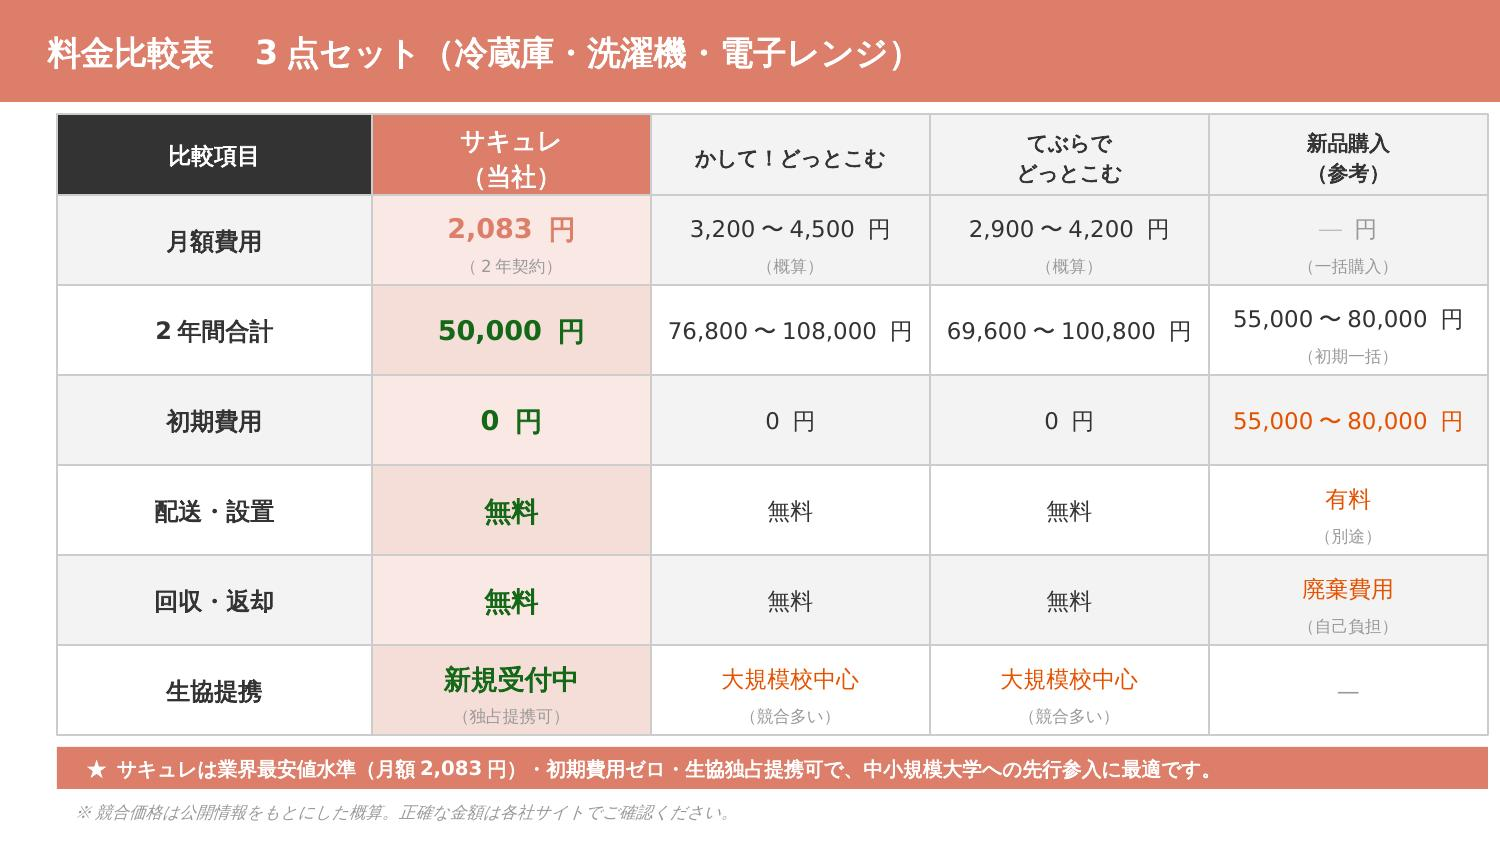
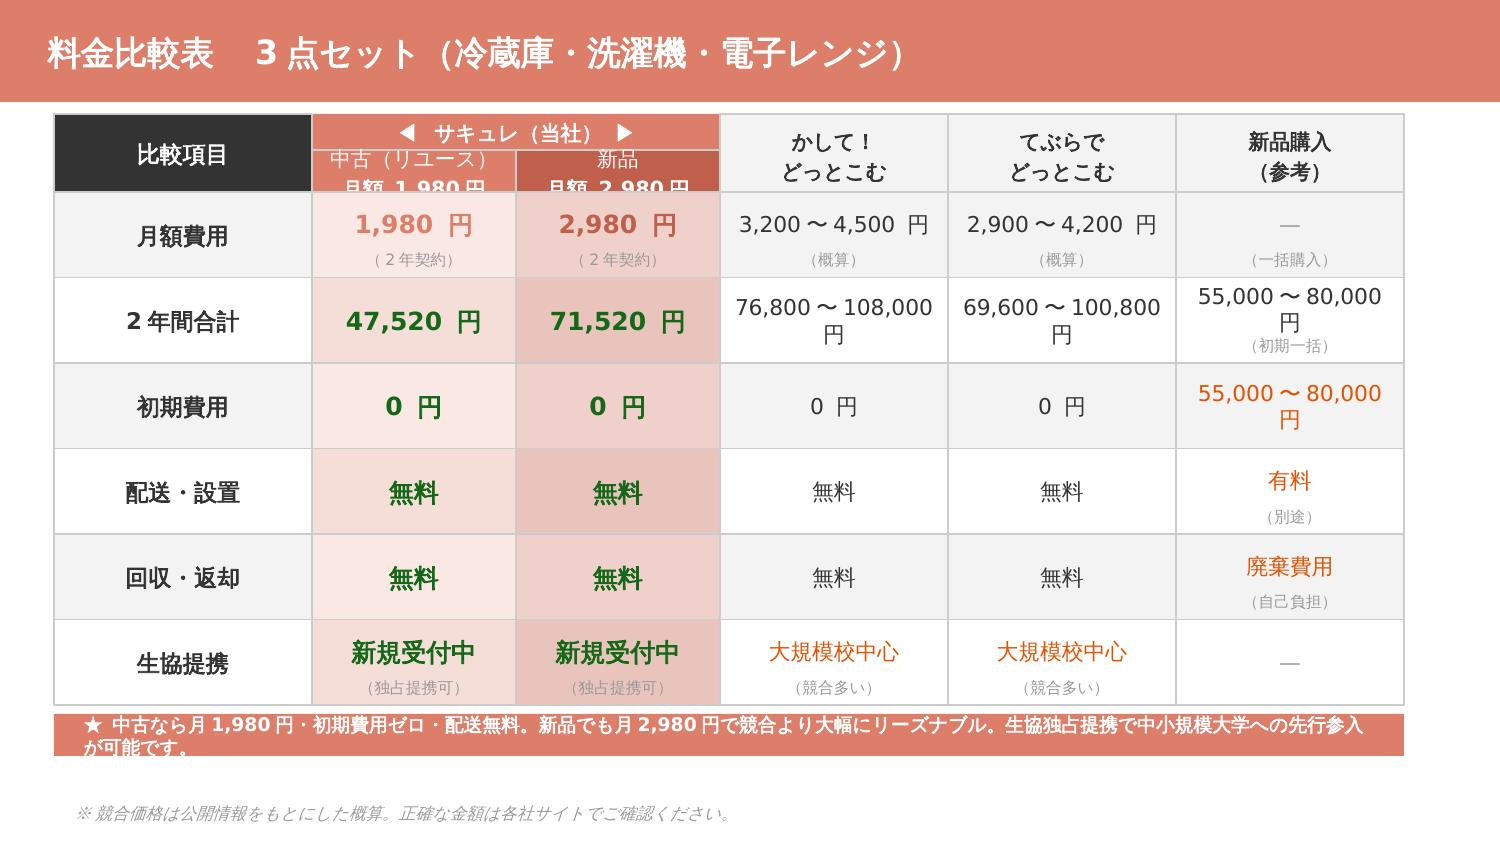
料金比較表 2プライス制に更新（中古1,980円・新品2,980円）
サキュレ列を中古（リユース）と新品の2列に分割して比較。
2年合計: 中古47,520円 / 新品71,520円。競合3社・新品購入との比較継続。

Claude-Session: https://claude.ai/code/session_01BgHAFjDQSmbvXBnKUF79fq

diff --git a/make_ryokin_hikaku.js b/make_ryokin_hikaku.js
@@ -3,15 +3,17 @@ const pres = new pptx();
 pres.layout = 'LAYOUT_16x9'; // 10" × 5.625"
 
 const CORAL = 'DD7E6B';
+const DKCRL = 'C05F4C';  // ダークコーラル（新品列ヘッダー）
 const GREEN = '156818';
-const LTGRN = 'D9EAD3';
 const WHITE = 'FFFFFF';
 const OFFWH = 'F3F3F3';
 const DTXT  = '333333';
-const MTXT  = '595959';
 const MUTED = '999999';
 const LGREY = 'CCCCCC';
-const LTCOR = 'FAE8E4';  // 薄コーラル（サキュレ列背景）
+const LTCOR = 'FAE8E4';  // 薄コーラル（中古列背景偶数）
+const LTCR2 = 'F5DDD8';  // 薄コーラル（中古列背景奇数）
+const LTDK  = 'F0D0CA';  // 薄ダークコーラル（新品列背景偶数）
+const LTDK2 = 'E8C4BC';  // 薄ダークコーラル（新品列背景奇数）
 const AMBER = 'E65100';
 
 function card(s, x, y, w, h, fill, lineColor) {
@@ -33,42 +35,86 @@ function txt(s, text, x, y, w, h, opts) {
   txt(s, '料金比較表　3点セット（冷蔵庫・洗濯機・電子レンジ）', 0.22, 0, 9.6, 0.68,
     { fontSize: 16, bold: true, color: WHITE, valign: 'middle' });
 
-  // ─── 凡例（右上） ───
   txt(s, '※競合価格は公開情報をもとにした概算。正確な金額は各社サイトでご確認ください。',
-    0.4, 5.30, 9.2, 0.22,
+    0.4, 5.32, 9.2, 0.20,
     { fontSize: 8, color: MUTED, italic: true });
 
-  // ─── Table setup ───
-  const tX = 0.38;       // table left edge
-  const tY = 0.76;       // table top
-  const RH = 0.60;       // row height (data rows)
-  const CHH = 0.54;      // column header height
-  const LW = 2.10;       // label column width
-  const DW = 1.86;       // data column width (×4)
-  // total: 2.10 + 4×1.86 = 9.54"... adjust
-  // with tX=0.38: right edge = 0.38+2.10+4×1.86 = 0.38+2.10+7.44 = 9.92 ✓
+  // ─── Table layout ───
+  // Columns: 比較項目(LW) | サキュレ中古(SW) | サキュレ新品(SW) | かして!(DW) | てぶらで(DW) | 新品購入(DW)
+  const tX  = 0.36;
+  const tY  = 0.76;
+  const RH  = 0.57;   // data row height
+  const CHH = 0.52;   // column header height
+  const LW  = 1.72;   // label column
+  const SW  = 1.36;   // サキュレ sub-columns (×2)
+  const DW  = 1.52;   // competitor columns (×3)
+  // total: 0.36 + 1.72 + 2×1.36 + 3×1.52 = 0.36+1.72+2.72+4.56 = 9.36 ✓
 
-  const cols = [
-    { label: 'サキュレ\n（当社）', fill: CORAL, txtCol: WHITE, isSacure: true },
-    { label: 'かして！どっとこむ', fill: OFFWH, txtCol: DTXT, isSacure: false },
-    { label: 'てぶらで\nどっとこむ', fill: OFFWH, txtCol: DTXT, isSacure: false },
-    { label: '新品購入\n（参考）', fill: OFFWH, txtCol: DTXT, isSacure: false },
+  // ── Super-header "サキュレ（当社）" spanning 2 sub-cols ──
+  const sacSuperX = tX + LW;
+  const sacSuperW = SW * 2;
+  card(s, sacSuperX, tY, sacSuperW, 0.24, CORAL);
+  txt(s, '◀  サキュレ（当社）  ▶', sacSuperX, tY, sacSuperW, 0.24,
+    { fontSize: 10, bold: true, color: WHITE, align: 'center', valign: 'middle' });
+
+  // ── Column headers ──
+  const colHeaderY = tY + 0.24;
+  const colHeaderH = CHH - 0.24;
+
+  // 比較項目
+  card(s, tX, tY, LW, CHH, DTXT, LGREY);
+  txt(s, '比較項目', tX, tY, LW, CHH,
+    { fontSize: 11, bold: true, color: WHITE, align: 'center', valign: 'middle' });
+
+  // サキュレ 中古
+  card(s, sacSuperX, colHeaderY, SW, colHeaderH, CORAL, LGREY);
+  txt(s, [
+    { text: '中古（リユース）', options: { breakLine: true } },
+    { text: '月額 1,980円', options: { bold: true } },
+  ], sacSuperX, colHeaderY, SW, colHeaderH,
+    { fontSize: 10, color: WHITE, align: 'center', valign: 'middle', lineSpacingMultiple: 1.2 });
+
+  // サキュレ 新品
+  const sacNewX = sacSuperX + SW;
+  card(s, sacNewX, colHeaderY, SW, colHeaderH, DKCRL, LGREY);
+  txt(s, [
+    { text: '新品', options: { breakLine: true } },
+    { text: '月額 2,980円', options: { bold: true } },
+  ], sacNewX, colHeaderY, SW, colHeaderH,
+    { fontSize: 10, color: WHITE, align: 'center', valign: 'middle', lineSpacingMultiple: 1.2 });
+
+  // 競合3列
+  const competitorCols = [
+    { label: 'かして！\nどっとこむ', fill: OFFWH, txtCol: DTXT },
+    { label: 'てぶらで\nどっとこむ', fill: OFFWH, txtCol: DTXT },
+    { label: '新品購入\n（参考）', fill: OFFWH, txtCol: DTXT },
   ];
+  competitorCols.forEach((col, ci) => {
+    const x = tX + LW + SW * 2 + ci * DW;
+    card(s, x, tY, DW, CHH, col.fill, LGREY);
+    txt(s, col.label, x, tY, DW, CHH,
+      { fontSize: 10, bold: true, color: col.txtCol,
+        align: 'center', valign: 'middle', lineSpacingMultiple: 1.2 });
+  });
 
+  // ── Row data ──
+  // Each row: [label, sacure_chuko, sacure_shinpin, kashite, tebura, shinpin_purchase]
   const rows = [
     {
       label: '月額費用',
-      vals: [
-        { v: '2,083 円', sub: '（2年契約）', bold: true, col: CORAL },
+      cells: [
+        { v: '1,980 円', sub: '（2年契約）', bold: true, col: CORAL },
+        { v: '2,980 円', sub: '（2年契約）', bold: true, col: DKCRL },
         { v: '3,200〜4,500 円', sub: '（概算）', bold: false, col: DTXT },
         { v: '2,900〜4,200 円', sub: '（概算）', bold: false, col: DTXT },
-        { v: '— 円', sub: '（一括購入）', bold: false, col: MUTED },
+        { v: '—', sub: '（一括購入）', bold: false, col: MUTED },
       ],
     },
     {
       label: '2年間合計',
-      vals: [
-        { v: '50,000 円', sub: '', bold: true, col: GREEN },
+      cells: [
+        { v: '47,520 円', sub: '', bold: true, col: GREEN },
+        { v: '71,520 円', sub: '', bold: true, col: GREEN },
         { v: '76,800〜108,000 円', sub: '', bold: false, col: DTXT },
         { v: '69,600〜100,800 円', sub: '', bold: false, col: DTXT },
         { v: '55,000〜80,000 円', sub: '（初期一括）', bold: false, col: DTXT },
@@ -76,7 +122,8 @@ function txt(s, text, x, y, w, h, opts) {
     },
     {
       label: '初期費用',
-      vals: [
+      cells: [
+        { v: '0 円', sub: '', bold: true, col: GREEN },
         { v: '0 円', sub: '', bold: true, col: GREEN },
         { v: '0 円', sub: '', bold: false, col: DTXT },
         { v: '0 円', sub: '', bold: false, col: DTXT },
@@ -85,7 +132,8 @@ function txt(s, text, x, y, w, h, opts) {
     },
     {
       label: '配送・設置',
-      vals: [
+      cells: [
+        { v: '無料', sub: '', bold: true, col: GREEN },
         { v: '無料', sub: '', bold: true, col: GREEN },
         { v: '無料', sub: '', bold: false, col: DTXT },
         { v: '無料', sub: '', bold: false, col: DTXT },
@@ -94,7 +142,8 @@ function txt(s, text, x, y, w, h, opts) {
     },
     {
       label: '回収・返却',
-      vals: [
+      cells: [
+        { v: '無料', sub: '', bold: true, col: GREEN },
         { v: '無料', sub: '', bold: true, col: GREEN },
         { v: '無料', sub: '', bold: false, col: DTXT },
         { v: '無料', sub: '', bold: false, col: DTXT },
@@ -103,7 +152,8 @@ function txt(s, text, x, y, w, h, opts) {
     },
     {
       label: '生協提携',
-      vals: [
+      cells: [
+        { v: '新規受付中', sub: '（独占提携可）', bold: true, col: GREEN },
         { v: '新規受付中', sub: '（独占提携可）', bold: true, col: GREEN },
         { v: '大規模校中心', sub: '（競合多い）', bold: false, col: AMBER },
         { v: '大規模校中心', sub: '（競合多い）', bold: false, col: AMBER },
@@ -112,59 +162,65 @@ function txt(s, text, x, y, w, h, opts) {
     },
   ];
 
-  // ── Column headers ──
-  cols.forEach((col, ci) => {
-    const x = tX + LW + ci * DW;
-    card(s, x, tY, DW, CHH, col.fill, LGREY);
-    txt(s, col.label, x, tY, DW, CHH,
-      { fontSize: col.isSacure ? 12 : 10, bold: true, color: col.txtCol,
-        align: 'center', valign: 'middle', lineSpacingMultiple: 1.2 });
-  });
-  // label column header (empty)
-  card(s, tX, tY, LW, CHH, DTXT, LGREY);
-  txt(s, '比較項目', tX, tY, LW, CHH,
-    { fontSize: 11, bold: true, color: WHITE, align: 'center', valign: 'middle' });
-
-  // ── Data rows ──
   rows.forEach((row, ri) => {
     const y = tY + CHH + ri * RH;
-    const isEven = ri % 2 === 0;
+    const even = ri % 2 === 0;
 
     // Row label
-    card(s, tX, y, LW, RH, isEven ? OFFWH : WHITE, LGREY);
+    card(s, tX, y, LW, RH, even ? OFFWH : WHITE, LGREY);
     txt(s, row.label, tX, y, LW, RH,
-      { fontSize: 11.5, bold: true, color: DTXT, align: 'center', valign: 'middle' });
+      { fontSize: 11, bold: true, color: DTXT, align: 'center', valign: 'middle' });
 
-    // Data cells
-    row.vals.forEach((val, ci) => {
-      const x = tX + LW + ci * DW;
-      const isSacure = ci === 0;
-      const bgFill = isSacure ? (isEven ? LTCOR : 'F5DDD8') : (isEven ? OFFWH : WHITE);
-      card(s, x, y, DW, RH, bgFill, LGREY);
+    // サキュレ 中古
+    const bg0 = even ? LTCOR : LTCR2;
+    card(s, sacSuperX, y, SW, RH, bg0, LGREY);
+    // サキュレ 新品
+    const bg1 = even ? LTDK : LTDK2;
+    card(s, sacNewX, y, SW, RH, bg1, LGREY);
 
-      if (val.sub) {
-        // main value + sub note
-        txt(s, val.v, x, y + 0.04, DW, 0.36,
-          { fontSize: isSacure ? 13 : 11, bold: val.bold, color: val.col,
-            align: 'center', valign: 'middle' });
-        txt(s, val.sub, x, y + 0.37, DW, 0.20,
-          { fontSize: 8, color: MUTED, align: 'center', valign: 'middle' });
+    // 競合
+    competitorCols.forEach((_, ci) => {
+      const x = tX + LW + SW * 2 + ci * DW;
+      card(s, x, y, DW, RH, even ? OFFWH : WHITE, LGREY);
+    });
+
+    // Cell values
+    const cellXs = [
+      sacSuperX,
+      sacNewX,
+      tX + LW + SW * 2,
+      tX + LW + SW * 2 + DW,
+      tX + LW + SW * 2 + DW * 2,
+    ];
+    const cellWs = [SW, SW, DW, DW, DW];
+
+    row.cells.forEach((cell, ci) => {
+      const cx = cellXs[ci];
+      const cw = cellWs[ci];
+      const isSacure = ci < 2;
+      const fSize = isSacure ? 12 : 10.5;
+
+      if (cell.sub) {
+        txt(s, cell.v, cx, y + 0.04, cw, 0.34,
+          { fontSize: fSize, bold: cell.bold, color: cell.col, align: 'center', valign: 'middle' });
+        txt(s, cell.sub, cx, y + 0.36, cw, 0.18,
+          { fontSize: 7.5, color: MUTED, align: 'center', valign: 'middle' });
       } else {
-        txt(s, val.v, x, y, DW, RH,
-          { fontSize: isSacure ? 13 : 11, bold: val.bold, color: val.col,
-            align: 'center', valign: 'middle' });
+        txt(s, cell.v, cx, y, cw, RH,
+          { fontSize: fSize, bold: cell.bold, color: cell.col, align: 'center', valign: 'middle' });
       }
     });
   });
 
-  // ── 強調フッター（全幅） ──
-  const tableBottom = tY + CHH + rows.length * RH + 0.08;
-  card(s, tX, tableBottom, LW + DW * 4, 0.28, CORAL);
-  txt(s, '★ サキュレは業界最安値水準（月額2,083円）・初期費用ゼロ・生協独占提携可で、中小規模大学への先行参入に最適です。',
-    tX + 0.10, tableBottom, LW + DW * 4 - 0.20, 0.28,
-    { fontSize: 9.5, bold: true, color: WHITE, valign: 'middle' });
+  // ── フッターバナー ──
+  const tableBottom = tY + CHH + rows.length * RH + 0.06;
+  const tableW = LW + SW * 2 + DW * 3;
+  card(s, tX, tableBottom, tableW, 0.28, CORAL);
+  txt(s, '★ 中古なら月1,980円・初期費用ゼロ・配送無料。新品でも月2,980円で競合より大幅にリーズナブル。生協独占提携で中小規模大学への先行参入が可能です。',
+    tX + 0.10, tableBottom, tableW - 0.20, 0.28,
+    { fontSize: 9, bold: true, color: WHITE, valign: 'middle' });
 
-  s.addNotes('料金比較表。サキュレの3点セット月額2,083円（2年50,000円）は競合比較で最安値水準。初期費用ゼロ・配送回収無料・生協独占提携可能が差別化ポイント。競合価格は概算（公開情報ベース）。');
+  s.addNotes('料金比較表v2。サキュレは中古1,980円・新品2,980円の2プライス制。競合比で最安値水準。初期費用ゼロ・配送回収無料・生協独占提携可能が差別化ポイント。競合価格は概算（公開情報ベース）。');
 }
 
 const OUT = '/tmp/claude-0/-home-user-sacure/1db07409-6d1e-5d98-92a7-465fca194ddc/scratchpad/料金比較表_v1.pptx';
